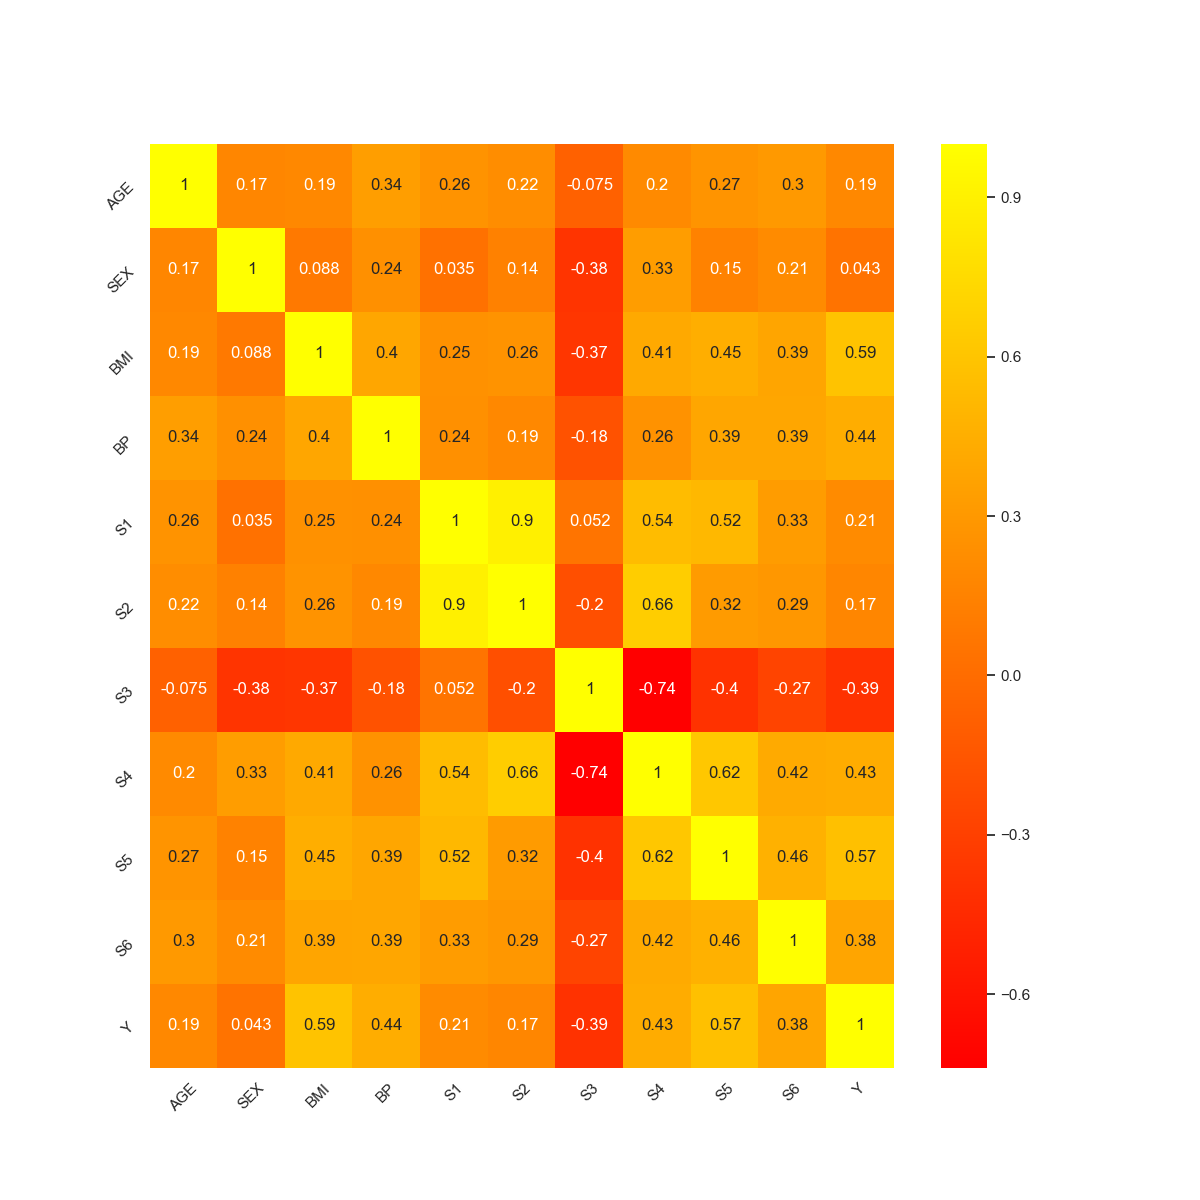
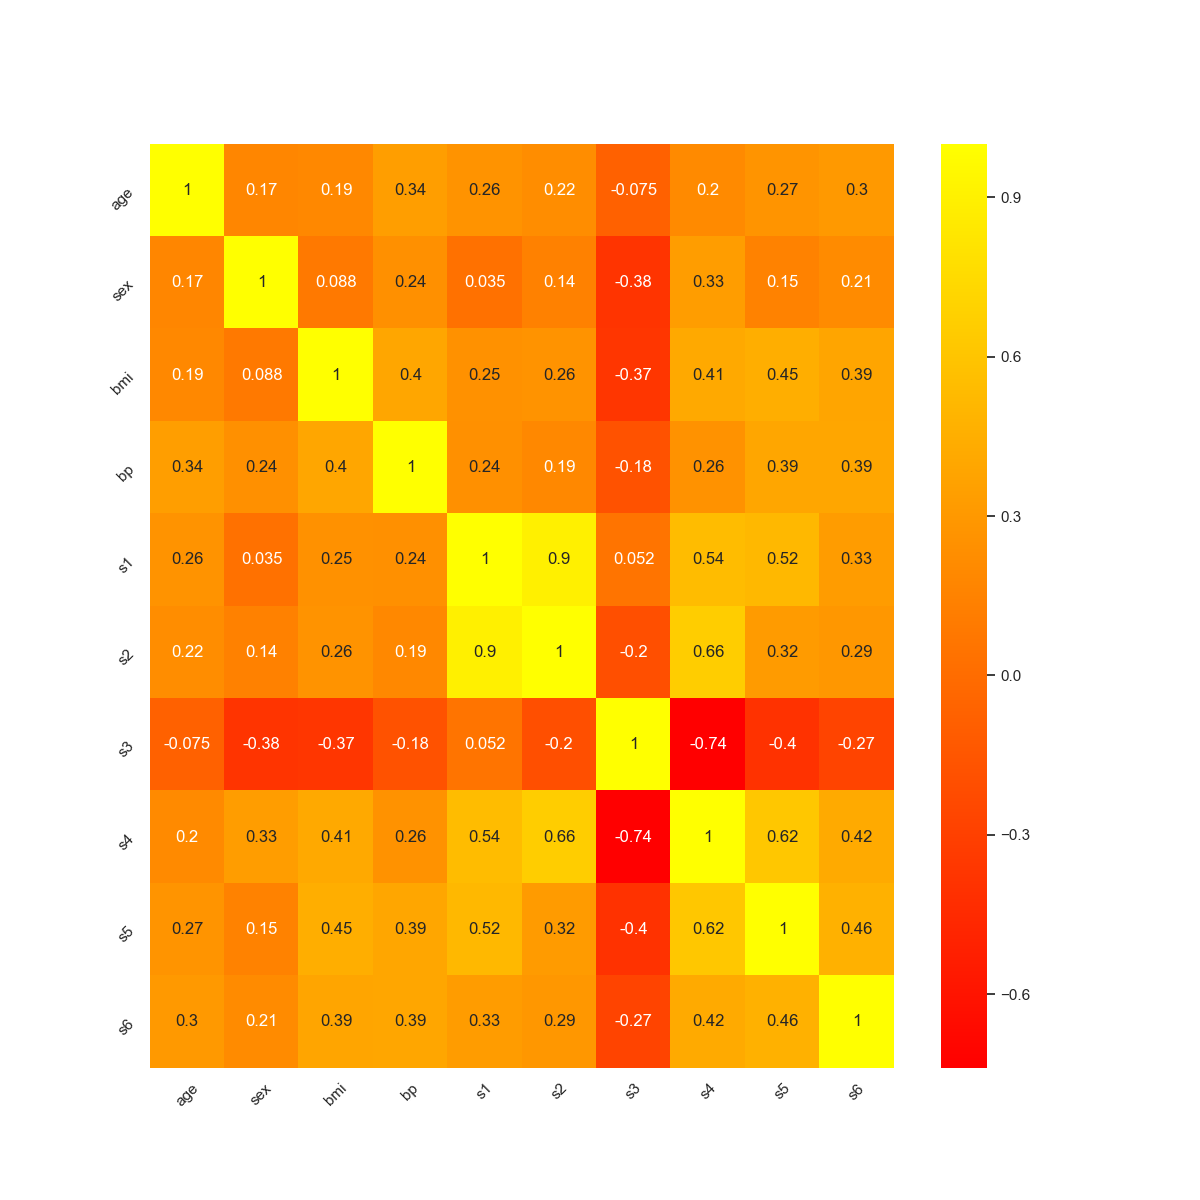
Update way to process Estimators

diff --git a/project.py b/project.py
@@ -4,6 +4,13 @@ import matplotlib.pyplot as plt
 import os
 import seaborn as sns
 from sklearn import datasets, linear_model
+from sklearn.datasets import load_diabetes
+from sklearn.linear_model import LinearRegression, Ridge, Lasso
+from sklearn.model_selection import train_test_split
+from sklearn.metrics import mean_squared_error, r2_score, max_error, explained_variance_score
+
+from sklearn.neighbors import KNeighborsRegressor
+from sklearn import svm
 
 # https://scikit-learn.org/stable/tutorial/machine_learning_map/index.html
 
@@ -14,11 +21,14 @@ from sklearn import datasets, linear_model
 # https://scikit-learn.org/stable/modules/model_evaluation.html
 
 # https://towardsdatascience.com/a-beginners-guide-to-linear-regression-in-python-with-scikit-learn-83a8f7ae2b4f
+# https://towardsdatascience.com/machine-learning-workflow-on-diabetes-data-part-01-573864fcc6b8
 
 # 1 - learn about our data by printing some stats
 # 2 - create a heatmap to visualize correlation between features
 # 3 - Review machine learning map to determine best practices in regression problems
-# 4 - try different regression estimator methods to determine best performance.
+# 4 - Try different regression estimator methods to determine best performance.
+# 5 - In case of KNeighborsRegressor try with # numbers of neighbors to find best performance
+# 6 - In case of Ridge & Lasso try # numbers of alpha parameter to determine best performance
 
 
 
@@ -34,71 +44,94 @@ def performance(title, reg_model, X,y, y_test, predicted_values, columns_names):
     print("Mean squared error ( close to 0 the better): %.2f"
           % mean_squared_error(y_test, predicted_values))
     print('Variance score ( close to 1.0 the better ): %.2f' % r2_score(y_test, predicted_values))
-    print('score ( close to 1.0 the better): %.2f' % reg_model.score(X, y))
     if title == "Linear Regression Performance":
         print("Intercept: %.2f" % reg_model.intercept_)
     print("Max Error ( close to 0.0 the better): %.2f" % max_error(y_test, predicted_values))
 
+def draw_heatmap(df, path):
+    os.makedirs(path, exist_ok=True)
+    sns.set()
+    fig, ax = plt.subplots(figsize=(12, 12))
+    sns.heatmap(df.corr(), annot=True, cmap='autumn')
+    ax.set_xticklabels(df.columns, rotation=45)
+    ax.set_yticklabels(df.columns, rotation=45)
+    plt.savefig(f'{path}/diabetes_heatmap.png')
+    plt.clf()
 
-df = pd.read_csv(filepath_or_buffer='data/diabetes.data',
-                      sep='\t',
-                      header=0)
-description(df)
+def process_models(data):
+    names = list()
+    scores = list()
 
-path = 'plots/'
-os.makedirs(path, exist_ok=True)
-sns.set()
-fig, ax = plt.subplots(figsize=(12,12))
-sns.heatmap(df.corr(), annot=True, cmap='autumn')
-ax.set_xticklabels(df.columns, rotation=45)
-ax.set_yticklabels(df.columns, rotation=45)
-plt.savefig(f'{path}/diabetes_heatmap.png')
-plt.clf()
-
-from sklearn.datasets import load_diabetes
-from sklearn.linear_model import LinearRegression, Ridge, Lasso
-from sklearn.model_selection import train_test_split
-from sklearn.metrics import mean_squared_error, r2_score, max_error,explained_variance_score
-
+    for name, model in data["models"]:
+        model.fit(data["X_train"], data["y_train"])
+        predicted_values = model.predict(data["X_test"])
+        scores.append([ mean_squared_error(data["y_test"], predicted_values), r2_score(data["y_test"], predicted_values)])
+        names.append(name)
+    return pd.DataFrame({'Name': names, 'Score': scores})
 
 
 diabetes = load_diabetes()
 columns_names = diabetes.feature_names
 X = diabetes.data
 y = diabetes.target
+df = pd.DataFrame(data=diabetes['data'],columns=diabetes['feature_names'])
+
+path = 'plots/'
+draw_heatmap(df,path)
+
+max_number_of_neighbors = 50
+max_number_of_iterations = 20
+alpha = 0.1
+models = list()
+result = list()
+models.append(('LR', LinearRegression()))
+models.append(('KNR', KNeighborsRegressor()))
+models.append(('SVR', svm.SVR()))
+models.append(('RR', Ridge()))
+models.append(('LS', Lasso()))
 
 from sklearn.model_selection import train_test_split
 X_train, X_test, y_train, y_test = train_test_split(X, y, test_size=0.35)
-# Linear regression
-lr = LinearRegression()
-lr.fit(X_train, y_train)
-
-# Predicting the results for our test dataset
-predicted_values = lr.predict(X_test)
-performance("Linear Regression Performance",lr, X,y,y_test,predicted_values,columns_names)
-
-
-from sklearn.neighbors import KNeighborsRegressor
-neigh = KNeighborsRegressor(n_neighbors=100)
-neigh.fit(X_train, y_train)
-predicted_values = neigh.predict(X_test)
-performance("K Neighbors Regressor Performance",neigh, X,y,y_test,predicted_values,columns_names)
-
-
-from sklearn import svm
-
-clf = svm.SVR()
-clf.fit(X_train, y_train)
-predicted_values = clf.predict(X_test)
-performance("Support Vector Regression",clf, X,y,y_test,predicted_values,columns_names)
-
-
-reg = linear_model.Ridge(alpha=.5)
-reg.fit(X_train, y_train)
-predicted_values = reg.predict(X_test)
-performance("Ridge Regression",reg, X,y,y_test,predicted_values,columns_names)
-
-lasso = linear_model.Lasso(alpha=0.1)
-lasso.fit(X_train, y_train)
-predicted_values = lasso.predict(X_test)
-performance("Lasso Regression",lasso, X,y,y_test,predicted_values,columns_names)
+data_dict = {
+            "models": models,
+            "X_train": X_train,
+            "X_test": X_test,
+            "y_train": y_train,
+            "y_test": y_test
+}
+for i in range(max_number_of_iterations + 1):
+    result.append(process_models(data_dict))
+print(result)
+# # Linear regression
+# lr = LinearRegression()
+# lr.fit(X_train, y_train)
+#
+# # Predicting the results for our test dataset
+# predicted_values = lr.predict(X_test)
+# performance("Linear Regression Performance",lr, X,y,y_test,predicted_values,columns_names)
+#
+#
+#
+# neigh = KNeighborsRegressor(n_neighbors=100)
+# neigh
+# neigh.fit(X_train, y_train)
+# predicted_values = neigh.predict(X_test)
+# performance("K Neighbors Regressor Performance",neigh, X,y,y_test,predicted_values,columns_names)
+#
+#
+#
+# clf = svm.SVR()
+# clf.fit(X_train, y_train)
+# predicted_values = clf.predict(X_test)
+# performance("Support Vector Regression",clf, X,y,y_test,predicted_values,columns_names)
+#
+#
+# reg = linear_model.Ridge(alpha=.5)
+# reg.fit(X_train, y_train)
+# predicted_values = reg.predict(X_test)
+# performance("Ridge Regression",reg, X,y,y_test,predicted_values,columns_names)
+#
+# lasso = linear_model.Lasso(alpha=0.1)
+# lasso.fit(X_train, y_train)
+# predicted_values = lasso.predict(X_test)
+# performance("Lasso Regression",lasso, X,y,y_test,predicted_values,columns_names)
